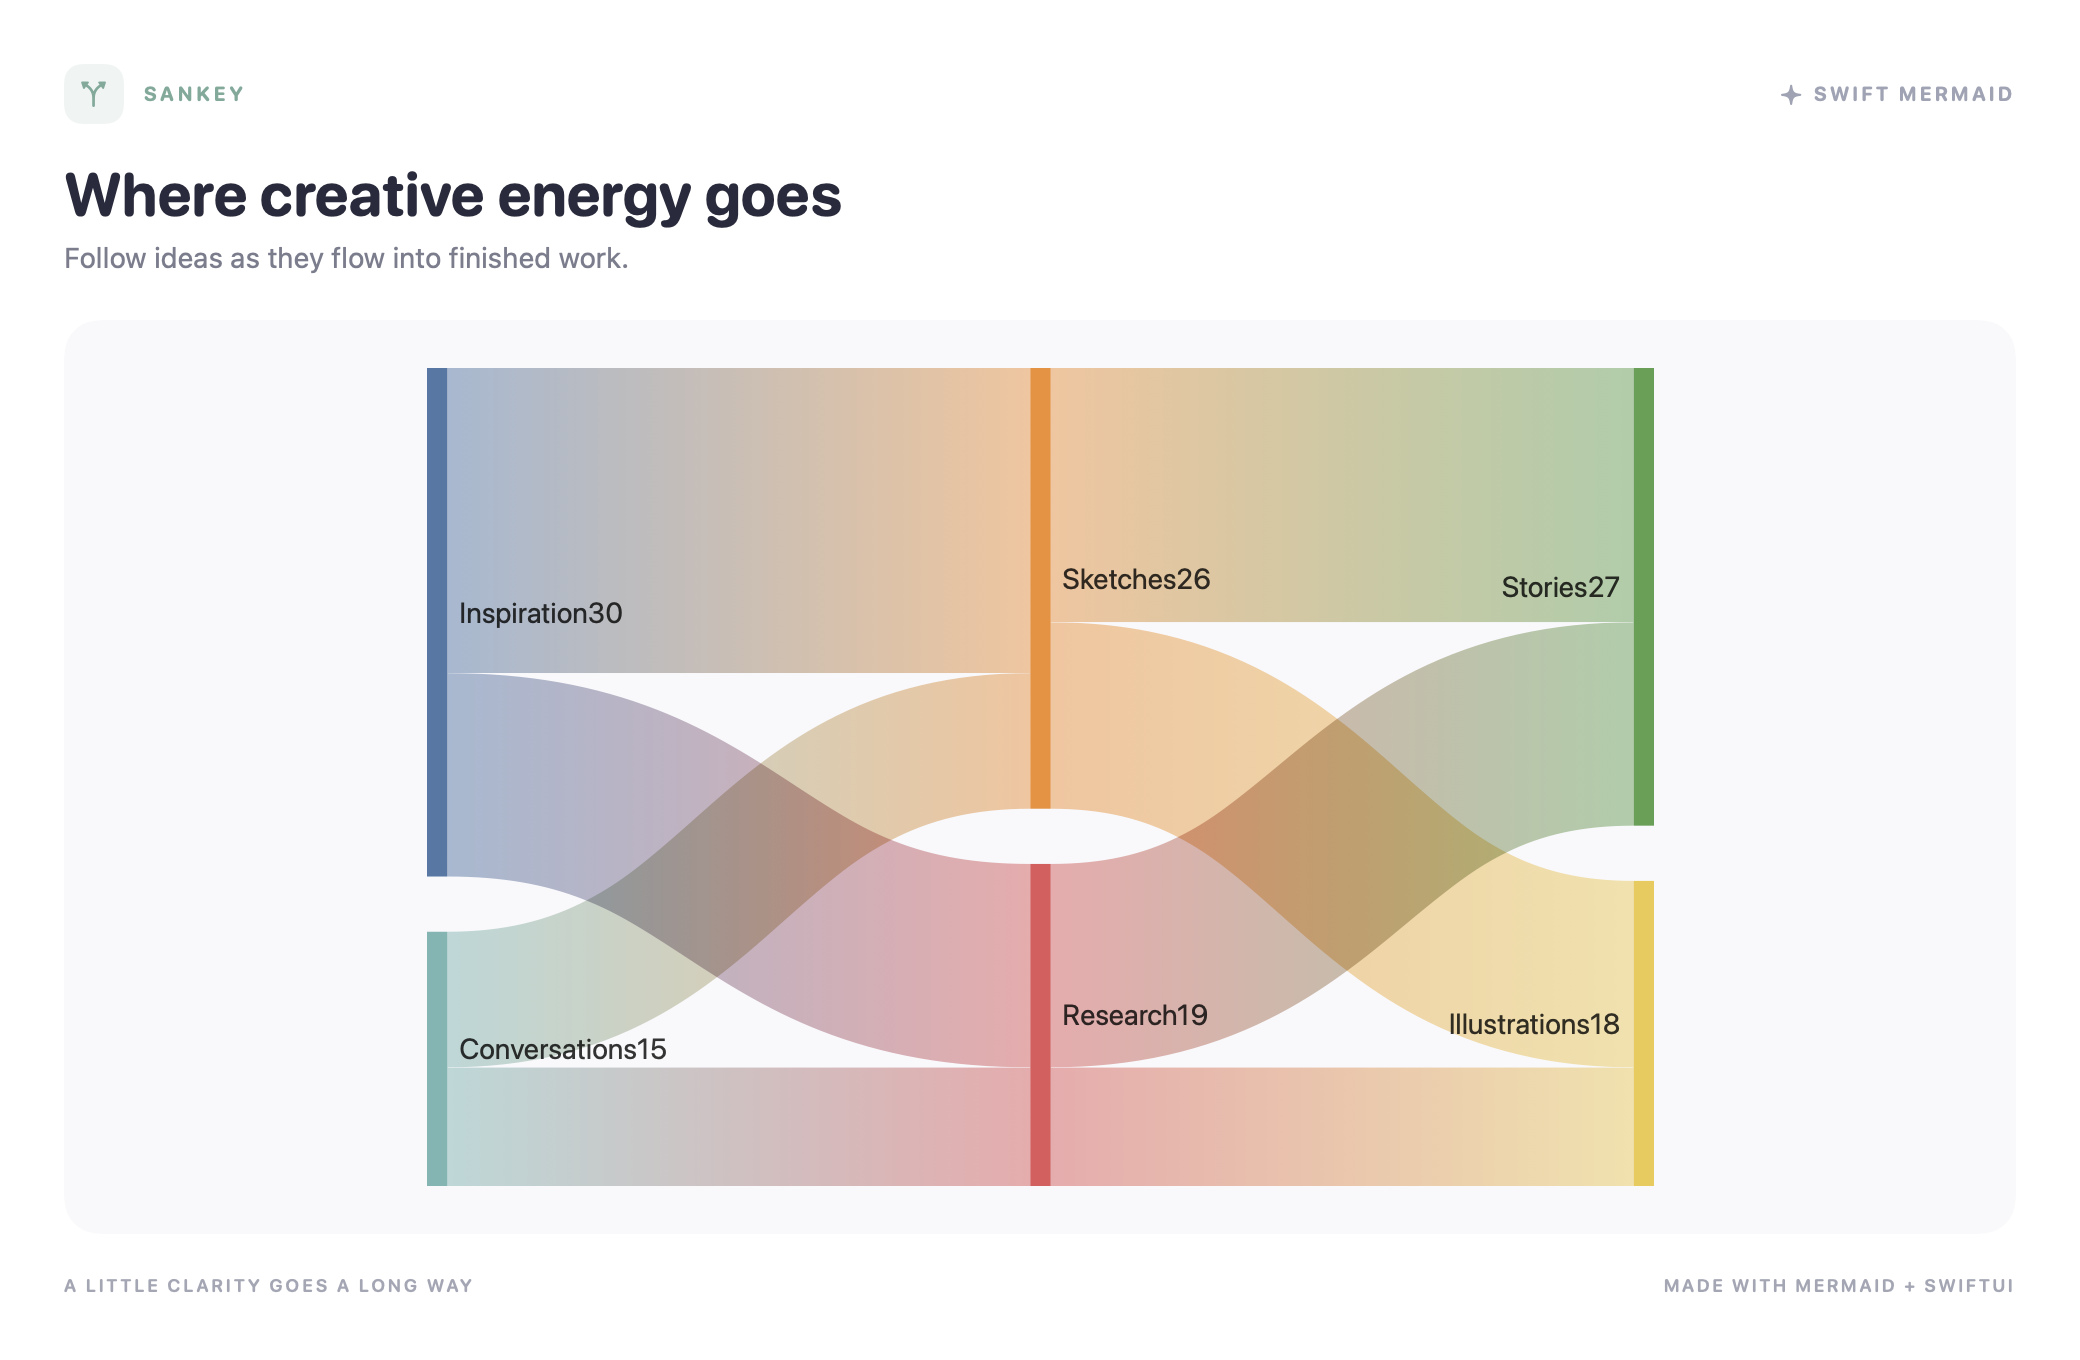
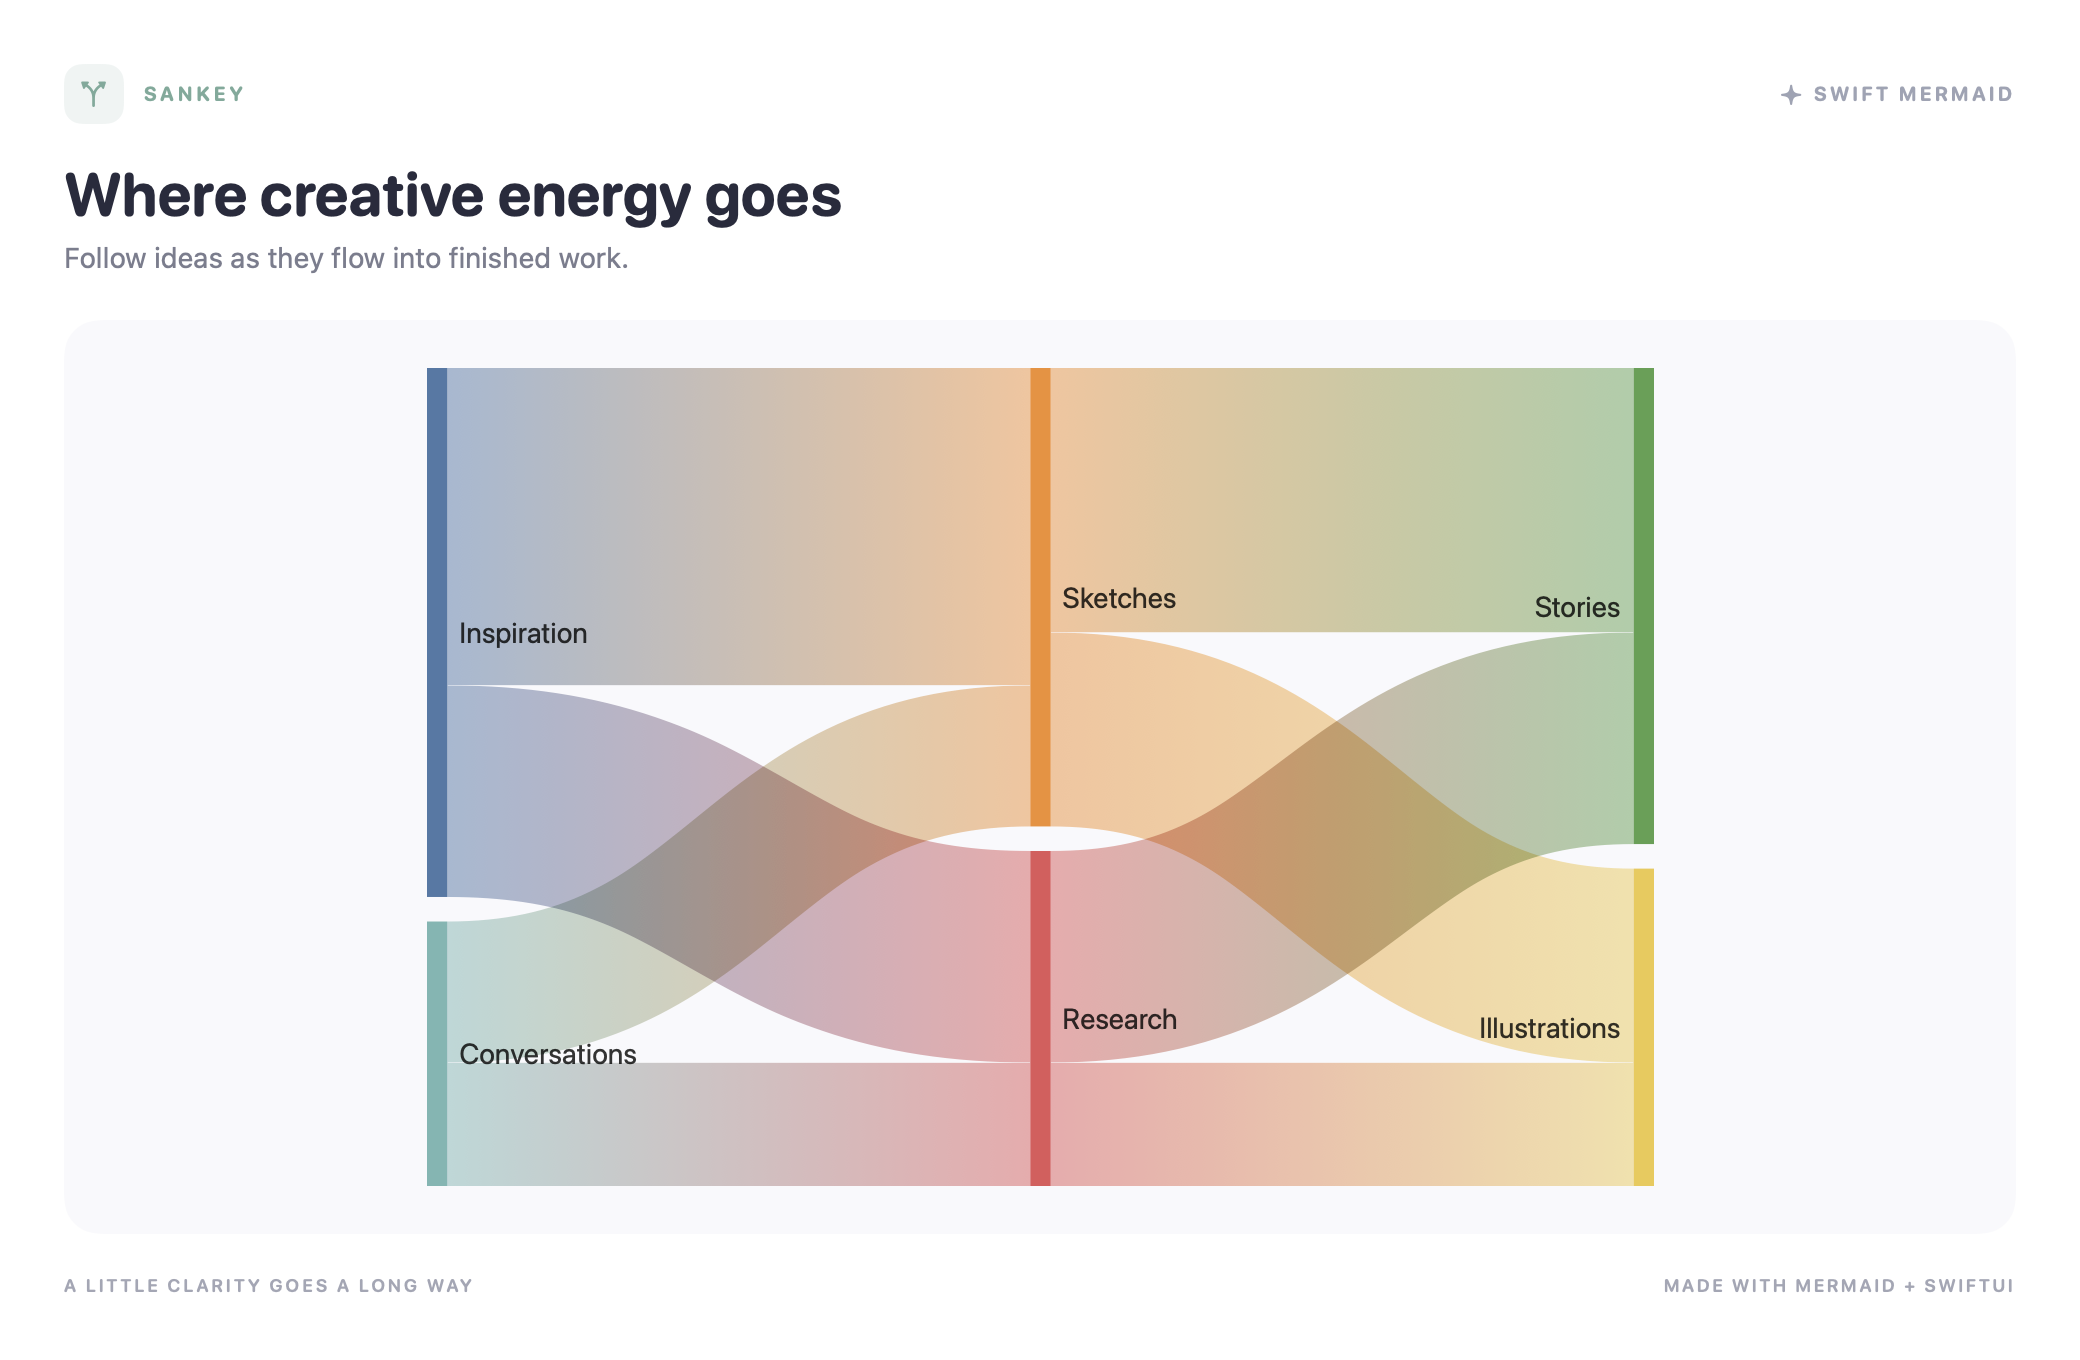
Polish diagram gallery and release 0.1.5

diff --git a/Examples/MermaidGallery/Sources/GallerySnapshots/GallerySnapshots.swift b/Examples/MermaidGallery/Sources/GallerySnapshots/GallerySnapshots.swift
@@ -9,16 +9,24 @@ import SwiftUI
 @main enum GallerySnapshots {
     @MainActor static func main() async throws {
         let arguments = CommandLine.arguments
-        guard arguments.count == 2 else {
-            fputs("Usage: GallerySnapshots <output-directory>\n", stderr)
+        guard arguments.count >= 2 else {
+            fputs("Usage: GallerySnapshots <output-directory> [diagram-id ...]\n", stderr)
             exit(2)
         }
+        let requested = Set(arguments.dropFirst(2))
+        let known = Set(DiagramSample.all.map(\.id))
+        let unknown = requested.subtracting(known)
+        guard unknown.isEmpty else {
+            fputs("Unknown diagram IDs: \(unknown.sorted().joined(separator: ", "))\n", stderr)
+            exit(2)
+        }
+        let samples = requested.isEmpty ? DiagramSample.all : DiagramSample.all.filter { requested.contains($0.id) }
         let output = URL(filePath: arguments[1], directoryHint: .isDirectory)
         try FileManager.default.createDirectory(at: output, withIntermediateDirectories: true)
         let application = NSApplication.shared
         application.setActivationPolicy(.accessory)
         let renderer = MermaidRenderer()
-        for sample in DiagramSample.all {
+        for sample in samples {
             var renderResult: Result<Artwork, any Error>?
             let card = GalleryCard(sample: sample, source: try sample.source(), renderer: renderer) { result in
                 renderResult = result

diff --git a/CHANGELOG.md b/CHANGELOG.md
@@ -1,5 +1,11 @@
 # Changelog
 
+## 0.1.5 (2026-11-18)
+
+- Improve the layout, colors, and legibility of selected gallery diagrams and refresh their screenshots.
+- Allow the gallery snapshot tool to regenerate selected diagrams by ID.
+- Continue bundling Mermaid 12.3.0.
+
 ## 0.1.4 (2026-11-18)
 
 - Expand the example gallery and DocC syntax guides to cover 32 Mermaid diagram types, including experimental and beta types.

diff --git a/Examples/MermaidGallery/README.md b/Examples/MermaidGallery/README.md
@@ -29,3 +29,10 @@ gallery directory; temporary windows may appear while it runs.
 ```sh
 swift run --package-path Examples/MermaidGallery GallerySnapshots Documentation/Images/Gallery
 ```
+
+Pass one or more diagram IDs after the output directory to regenerate only
+those images, for example:
+
+```sh
+swift run --package-path Examples/MermaidGallery GallerySnapshots Documentation/Images/Gallery c4 sankey
+```

diff --git a/README.md b/README.md
@@ -60,7 +60,7 @@ Add `https://github.com/ThorFuchs/Swift-Mermaid.git` in Xcode and select the
 
 ```swift
 dependencies: [
-    .package(url: "https://github.com/ThorFuchs/Swift-Mermaid.git", from: "0.1.4"),
+    .package(url: "https://github.com/ThorFuchs/Swift-Mermaid.git", from: "0.1.5"),
 ],
 targets: [
     .target(name: "YourTarget", dependencies: [

diff --git a/Sources/Mermaid/Mermaid.docc/GettingStarted.md b/Sources/Mermaid/Mermaid.docc/GettingStarted.md
@@ -9,7 +9,7 @@ dependency and select the `Mermaid` library. For a Swift package, add the
 following dependency and product to your manifest:
 
 ```swift
-.package(url: "https://github.com/ThorFuchs/Swift-Mermaid.git", from: "0.1.4")
+.package(url: "https://github.com/ThorFuchs/Swift-Mermaid.git", from: "0.1.5")
 ```
 
 ```swift
